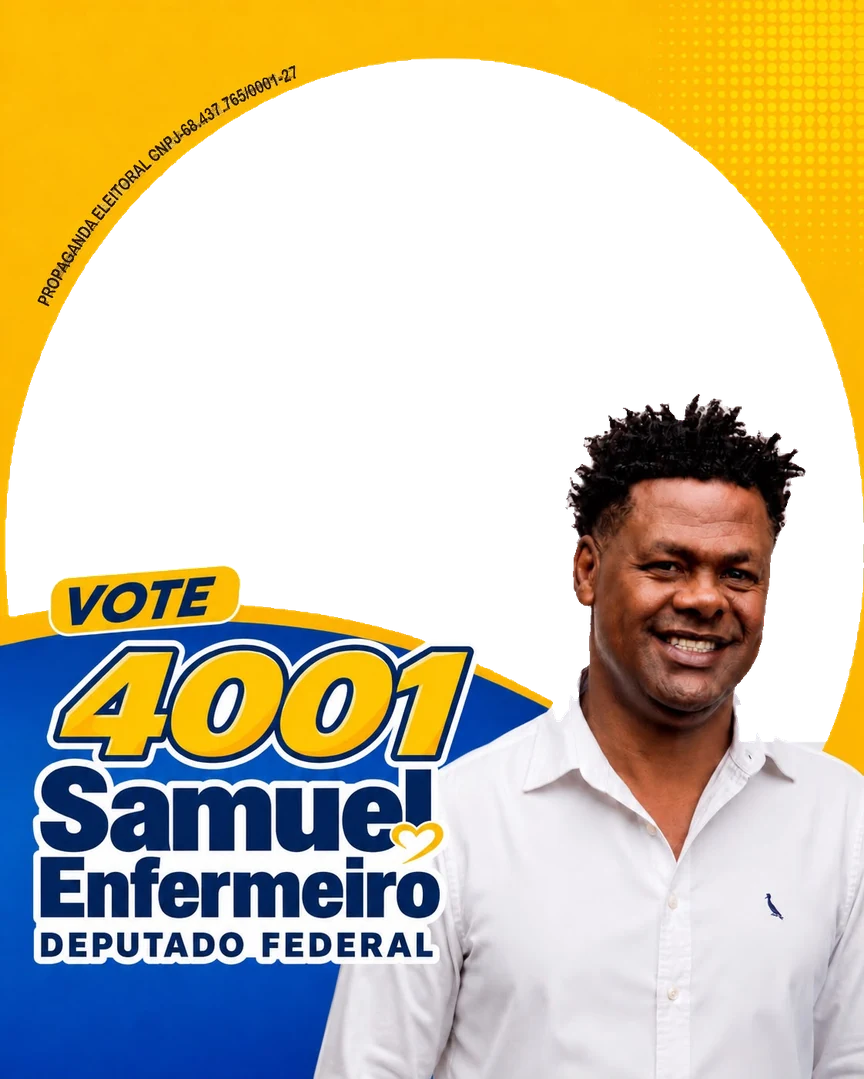
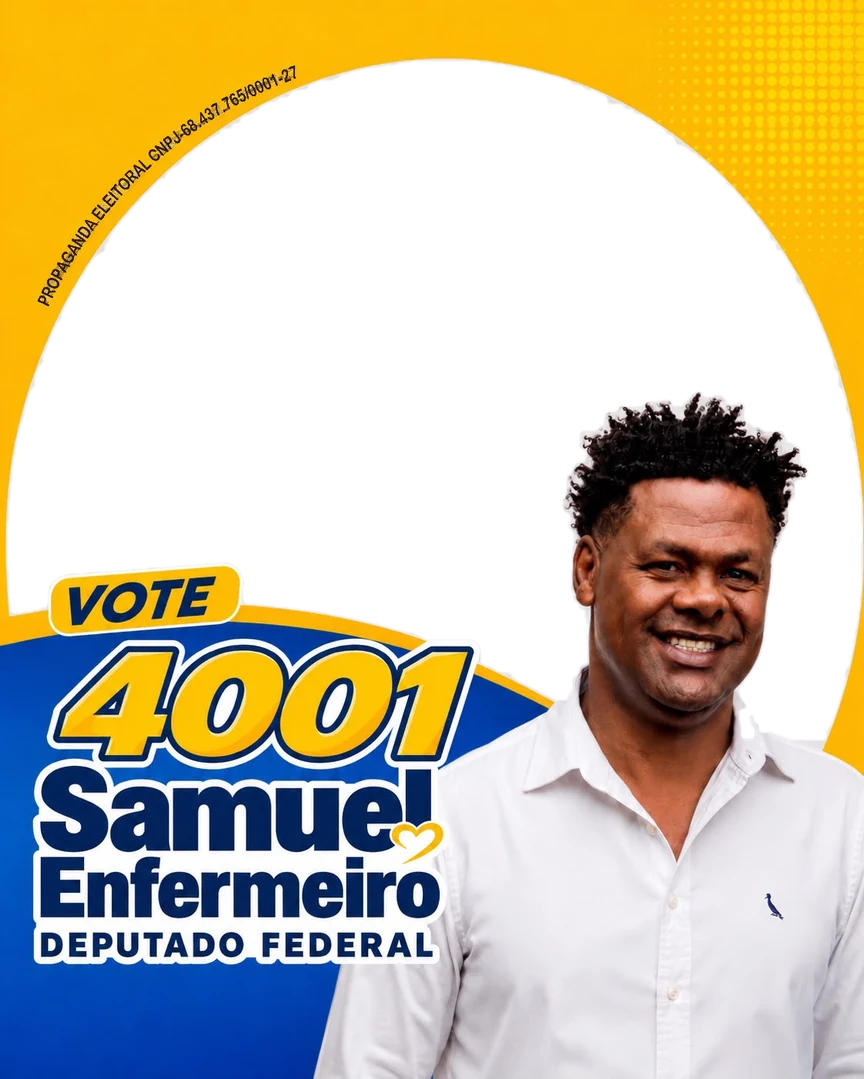
Corrige as mordidas na camisa do candidato
Com a foto real ficou visível o defeito: a borda do candidato saía
serrilhada, com pedaços do ombro e da camisa faltando. A varredura por
cor marcava como miolo os pixels da camisa que batiam com o tom do
buraco, e isso produzia dedos finos avançando para dentro dele.

A máscara passa por abertura morfológica antes de ser aplicada — erosão
seguida de dilatação, que elimina justamente esses dedos finos sem mexer
no contorno geral. Depois, um leve desfoque na borda para o recorte não
ficar duro.

Efeito medido pelo auditor, nas quatro molduras: placeholder na borda cai
de 42/60/25/41 px para zero, e franja clara de 12/243/5/253 px para zero.

Geometrias remedidas após o novo recorte.

diff --git a/index.html b/index.html
@@ -354,9 +354,9 @@
 
   // Molduras de story (9:16). A pessoa escolhe qual usar.
   var STORIES = [
-    { id: "amarelo", nome: "Amarela", cx: 406, cy: 561, rx: 396, ry: 347,
+    { id: "amarelo", nome: "Amarela", cx: 405, cy: 554, rx: 394, ry: 338,
       src: "assets/molduras/story-amarelo.webp" },
-    { id: "azul", nome: "Azul", cx: 405, cy: 638, rx: 405, ry: 467,
+    { id: "azul", nome: "Azul", cx: 405, cy: 635, rx: 405, ry: 462,
       src: "assets/molduras/story-azul.webp" }
   ];
   var STORY_W = 810, STORY_H = 1440;
@@ -373,11 +373,11 @@
   // Formatos 1:1 e 4:5. Todos trazem a arte oficial com o Samuel.
   var FORMATOS = [
     { id: "perfil", nome: "Foto de perfil", sub: "WhatsApp e Instagram",
-      W: 1080, H: 1080, cx: 540, cy: 402, rx: 486, ry: 349, focoX: 470,
+      W: 1080, H: 1080, cx: 540, cy: 400, rx: 484, ry: 345, focoX: 470,
       arquivo: "samuel-enfermeiro-perfil.png",
       src: "assets/molduras/perfil-1x1.webp" },
     { id: "post", nome: "Post do Instagram", sub: "formato 4:5",
-      W: 864, H: 1079, cx: 434, cy: 400, rx: 429, ry: 342, focoX: 434,
+      W: 864, H: 1079, cx: 434, cy: 400, rx: 428, ry: 340, focoX: 434,
       arquivo: "samuel-enfermeiro-post.png",
       src: "assets/molduras/post-45.webp" }
   ];
